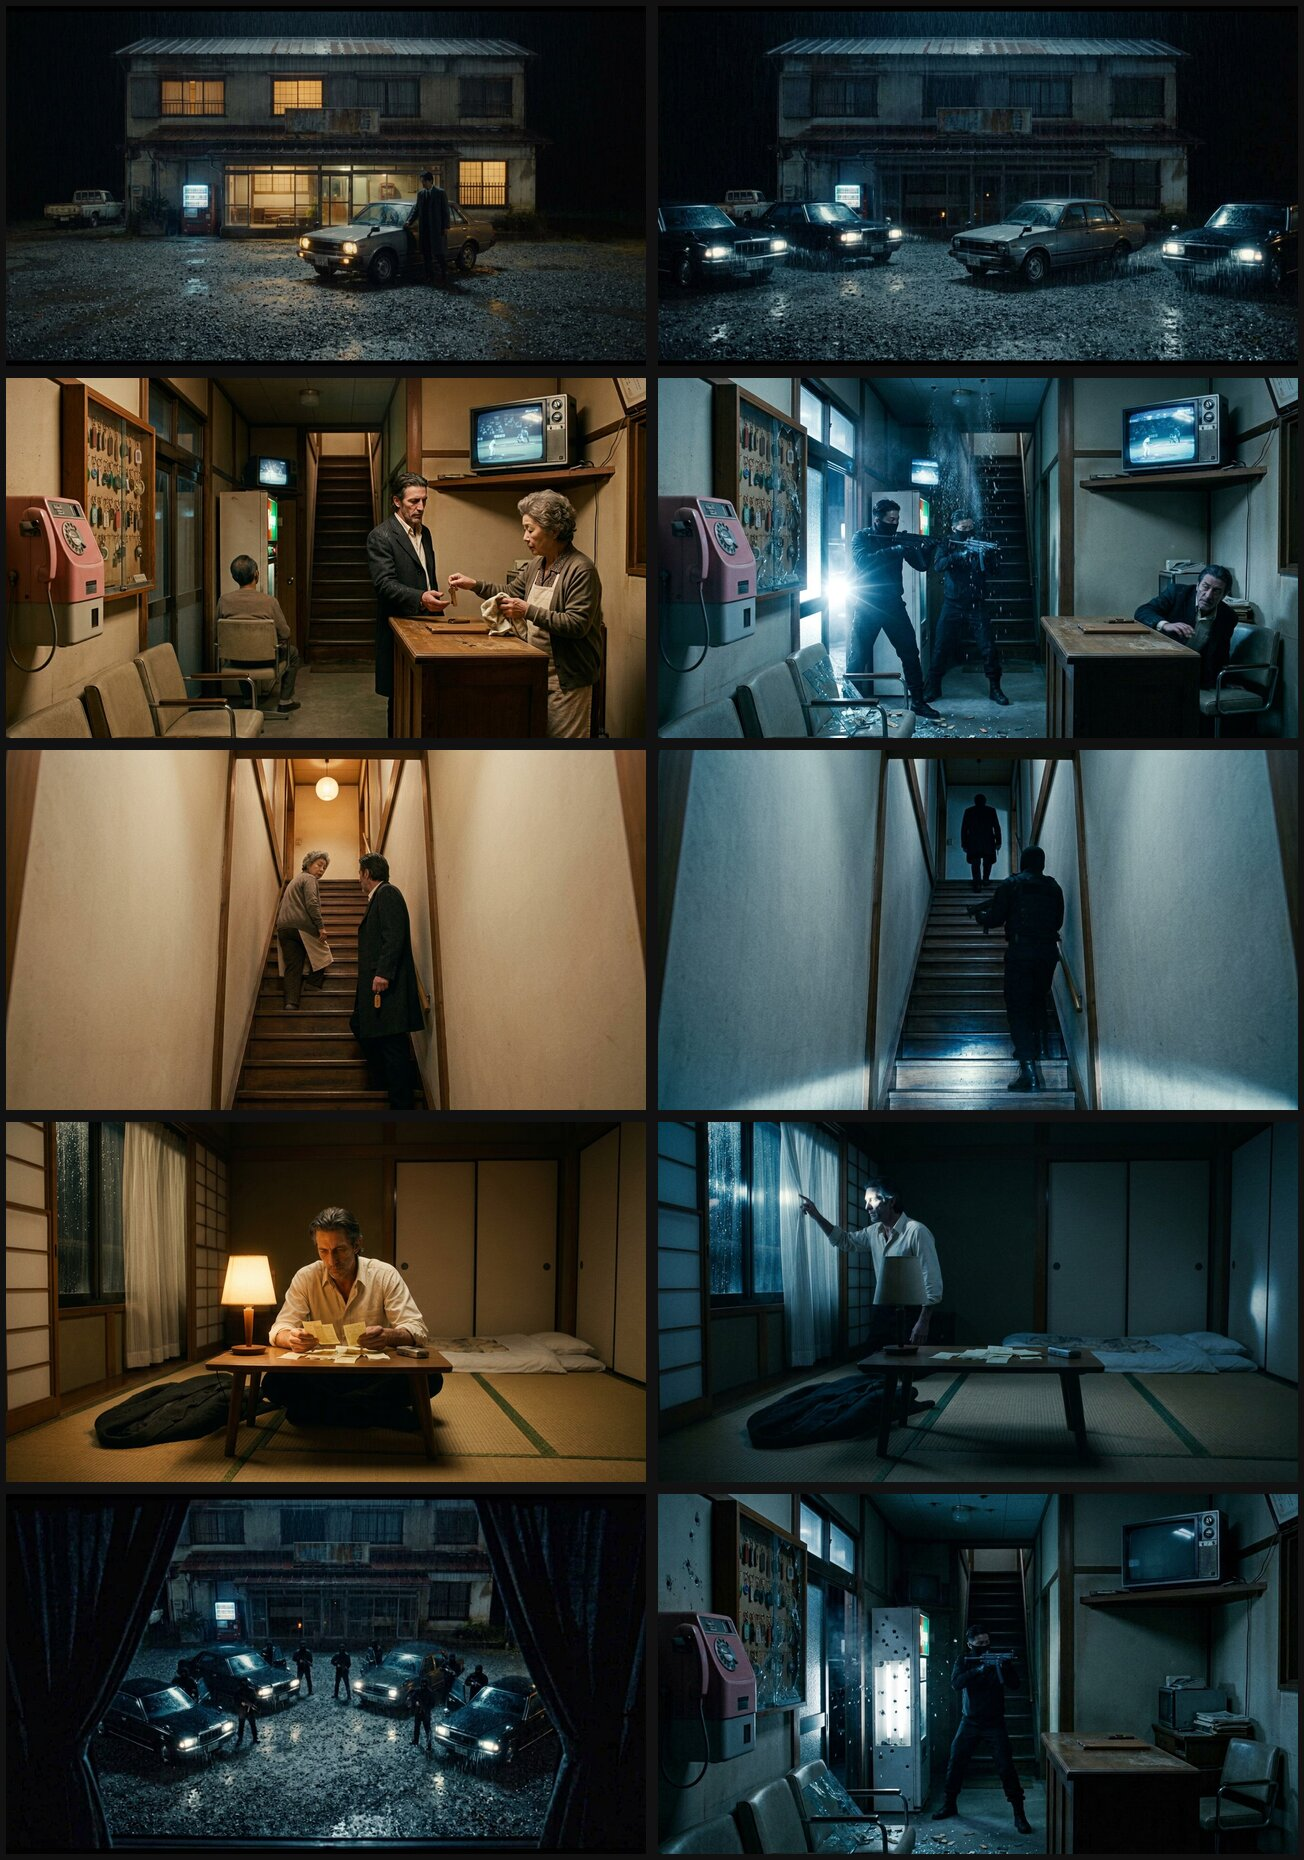
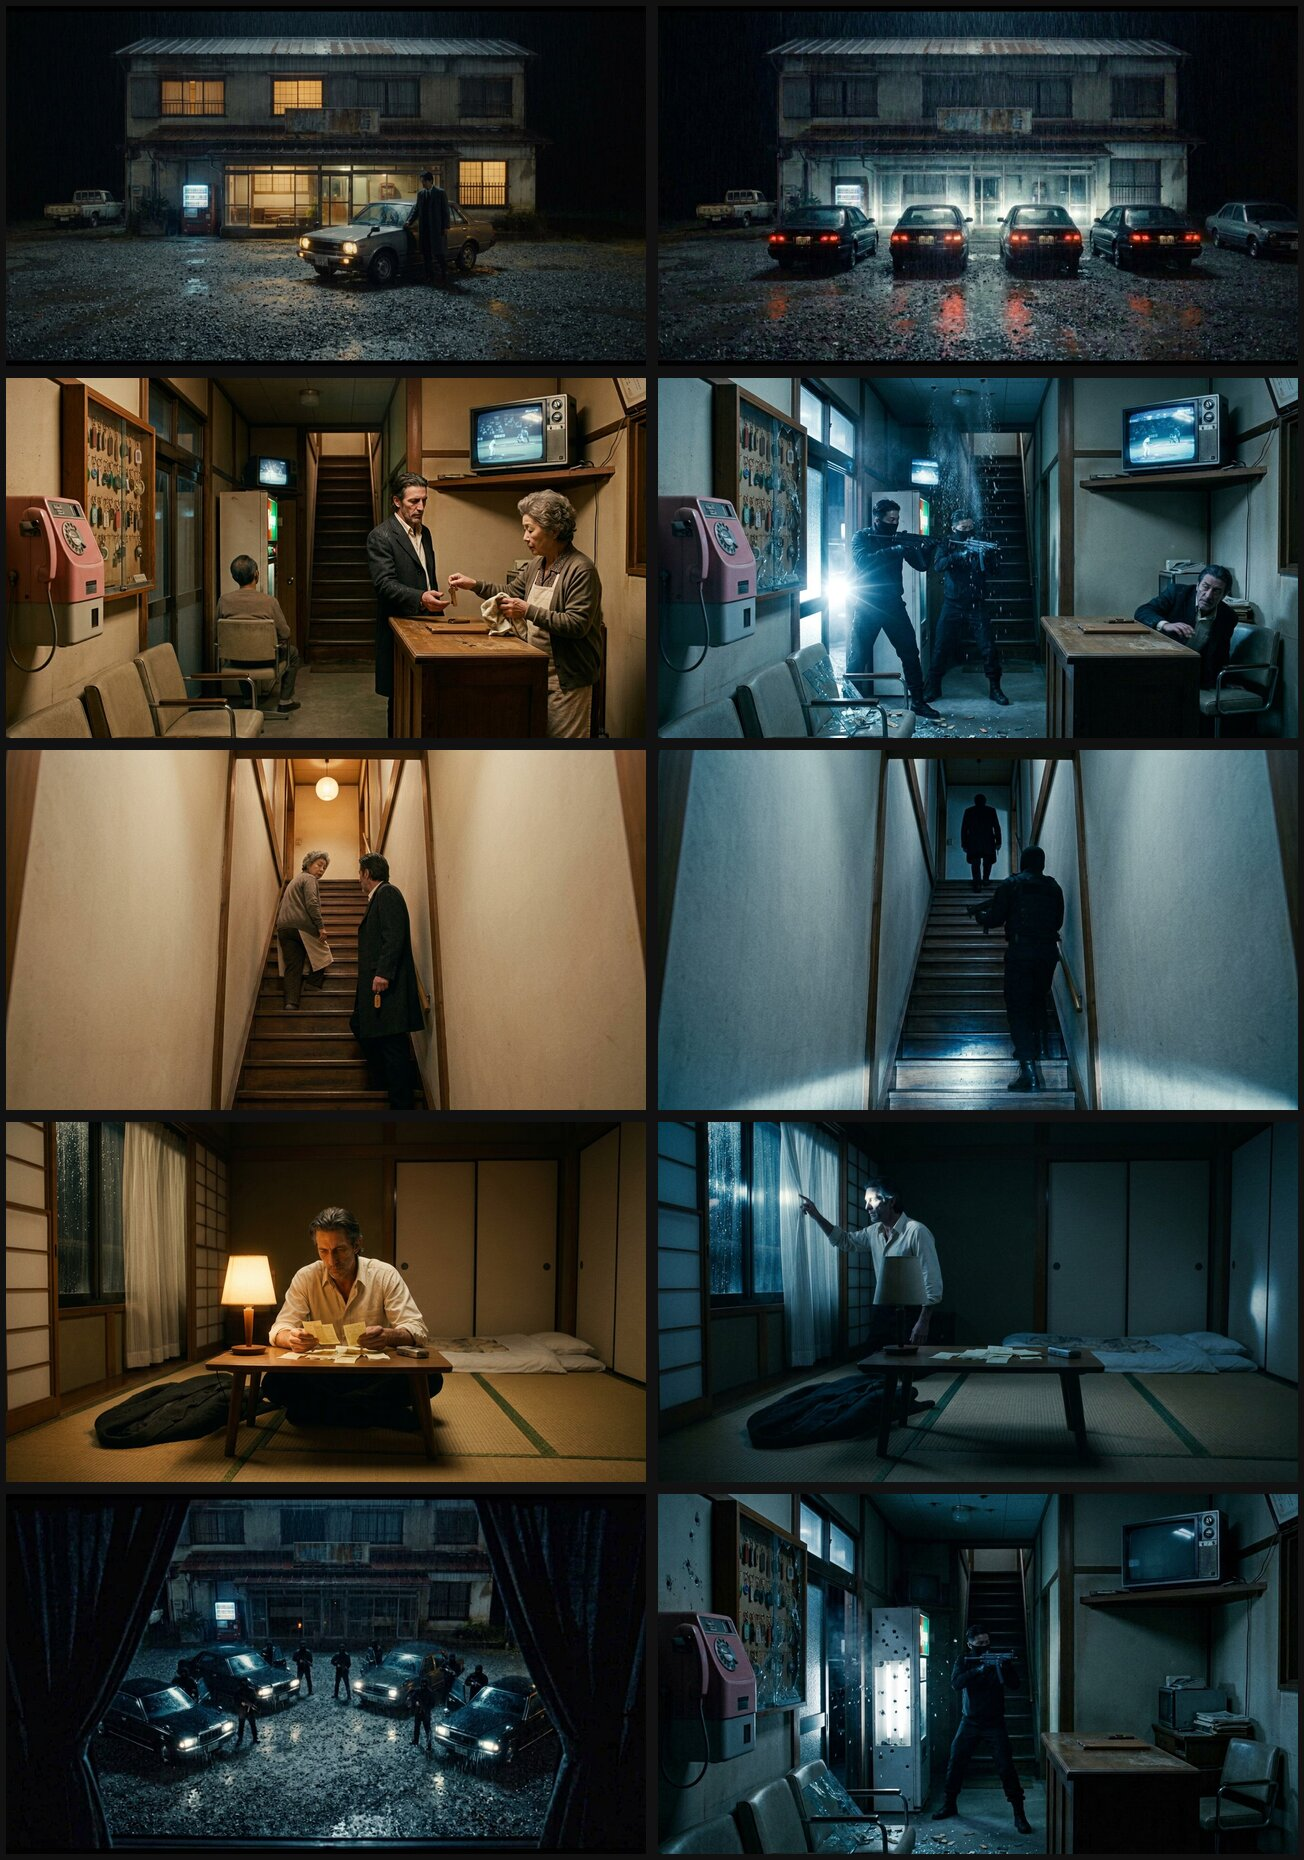
NEONOIRE: standing perspective-check rule; regenerate shot 175 so four sedans face the inn (matches shot 177's reverse)

Changed region(s): [[0.4908, 0.0312, 1.0, 0.2183]]

diff --git a/README.md b/README.md
@@ -45,7 +45,7 @@ forty-nine of them boarded as **180 numbered shots** — the opening seven (shot
   counting towards, and what a clock that runs a minute fast is doing in a police station are all left
   where the draft leaves them.
 
-**Latest session — the roadside inn boarded: the stairs and the colour change:** ten new 16:9 shots from scenes 31–45, boarded ahead of order. **Two new standing rules.** First, the *Tokyo Story* **stairway motif**: a low, static camera square to the stairs, where going up is refuge and something coming up is danger. The inn's stair frame is shot twice from the same position, first warm with Mrs. Noda leading Jack up, then cold with a masked man climbing. Second, the **colour change**: the inn is a warm amber refuge until the four sedans turn in at scene 38, when everything turns steel blue and xenon white. See the [inn ledger](docs/neonoire/passes/roadside-inn.md) and the [warm/cold review sheet](public/images/neonoire/reviews/roadside-inn-pass-1.jpg).
+**Latest session — the roadside inn boarded: the stairs and the colour change:** ten new 16:9 shots from scenes 31–45, boarded ahead of order. **Two new standing rules.** First, the *Tokyo Story* **stairway motif**: a low, static camera square to the stairs, where going up is refuge and something coming up is danger. The inn's stair frame is shot twice from the same position, first warm with Mrs. Noda leading Jack up, then cold with a masked man climbing. Second, the **colour change**: the inn is a warm amber refuge until the four sedans turn in at scene 38, when everything turns steel blue and xenon white. **A perspective check is now a standing rule:** every image is checked for vehicle count and direction, screen direction, headcounts and architecture before it goes in. Shot 175 was regenerated after it caught the sedans facing away from the inn. See the [inn ledger](docs/neonoire/passes/roadside-inn.md) and the [warm/cold review sheet](public/images/neonoire/reviews/roadside-inn-pass-1.jpg).
 
 **Previous session — scenes 8–12 boarded, Kanda revisited:** nine new 16:9 shots. The bar by day, where Vera leaves the blue umbrella on purpose. Okada runs after her with the red bird clip. In Jack's office she finds the photograph face up, and Jack holds it by its edges. Past midnight, a photograph of Daniel Voss and a young Jack laughing under the noodle-shop sign. Then Jack is back on the cold open's street, standing where Mara stood. Vera wears her original look. See the [scenes 8–12 ledger](docs/neonoire/passes/scenes-8-12.md) and [review sheet](public/images/neonoire/reviews/scenes-8-12-pass-1.jpg).
 

diff --git a/docs/neonoire/handoff.md b/docs/neonoire/handoff.md
@@ -4,6 +4,19 @@
 
 The final screenplay is `Neonoire (3).fountain`: **100 scenes**, unchanged. The numbered board covers **49 scenes, 180 shots**: scenes 1–12, the roadside inn (31, 32, 34, 38–41, 45) and 72–100. **All 180 shot images are on disk; no placeholder slots remain.** All images are full-bleed 16:9, 1920×1080 JPEG.
 
+## Standing rules for every pass (set by the director)
+
+1. **Commit and push at the end of every turn** to `arena/01a0da06-playframe`; never leave work uncommitted.
+2. **Check perspective and geometry in every image before it is installed.** Look at it at full size against the script and the neighbouring shots:
+   - **Vehicles:** the right number; each whole (no missing front or back, not cut off at a door); **facing the direction the action implies** (a car arriving at a building faces the building, a departing car faces away); the same car in the same place and orientation across shots of one scene.
+   - **Screen direction:** left and right, eyelines and the 180° line agree with the adjacent shots and with POV reverses (for example the lot seen from the window and from the ground).
+   - **Headcounts and props:** match the script (four sedans, eight men, one clip).
+   - **Architecture:** stairs, doors and windows lead where the location says they do; verticals are straight; the room matches its master.
+   - **Light and shadow:** direction is plausible, and practicals the script names (a TV, a bulb) are actually lit.
+   If an image fails and a generation is left, regenerate or edit it. If not, log the failure in the board note and the pass ledger as an honest caveat. Never install an image with an unlogged failure.
+3. **Vera's costume changes** always bring a genuinely new coat (a different garment, not a recolour) in a colour that fits the scene.
+4. **The stairway motif and the inn colour change** are described in `scripts/neonoire/inn-look.mjs`.
+
 **Latest session — [the roadside inn boarded](passes/roadside-inn.md): the stairs and the colour change.** Ten shots (171–180), ten calls, boarded ahead of order at the director's request. **Two new standing rules, written in `scripts/neonoire/inn-look.mjs`:**
 
 1. **The stairway motif.** Stage stairs wherever the script allows, from a low, level, static camera square to the flight. Going up means refuge, hope or the past; something coming up, or going down, means danger or loss. The planned uses are scenes 15–16 (the Hive's outside stair), scene 21 plus a scene 10 exit (the office stairwell), scene 28 (stone steps up from the sea wall) and scenes 69 and 71 (matching scene 89).

diff --git a/docs/neonoire/scenes/n38-roadside-inn-night.md b/docs/neonoire/scenes/n38-roadside-inn-night.md
@@ -14,11 +14,11 @@ One shot (175), **16:9, 1920×1080, full-bleed**, numbered in boarding order. Ea
 ---
 
 175. WIDE — 35mm, static, low angle — four black sedans.
-The same frame as shot 171, now dark. The inn's windows are out and the black sedans' xenon beams cut the rain, which shows only inside the beams. Everything is steel blue except the small glow of the vending machine.
+The same frame as shot 171, now dark. Four black sedans have turned in and stopped facing the inn, their tail lights to camera and their xenon beams flooding the dark facade, with the rain showing only inside the beams. Everything is steel blue except the small red tail lights and the vending machine.
 SCRIPT: "One car. Two. Three. Four. Black sedans, one after another, slowing, turning in, gravel crunching."
 CAST: —
 LIGHT: Low key
 TIME: 8
 ID: neonoire-shot-175
 IMAGE: 173-four-black-sedans.jpg
-NOTE: THE COLOUR CHANGE. Generated from shot 171. The study shows three sedans, already stopped; add the fourth and play the turn-in on set.
+NOTE: THE COLOUR CHANGE. **Regenerated after the perspective check:** the first study had three sedans with their headlights toward camera, facing away from the inn, which contradicted shot 177's reverse. This version has exactly four, all facing the inn, consistent with shot 177. It took three calls: one with five cars, one with the middle two facing the wrong way, then an edit removing the extra car. The cars are already stopped, so play the turn-in on set. Jack's car is parked at the far right here but centre-left in shot 171; match the two on set.

diff --git a/docs/neonoire/passes/roadside-inn.md b/docs/neonoire/passes/roadside-inn.md
@@ -36,10 +36,15 @@ Boards: [n31](../scenes/n31-roadside-inn.md), [n32](../scenes/n32-roadside-inn-l
 - **How it was made:** every cold frame was generated from its warm counterpart, so the camera never moves and only the light changes.
 - **Planned for scene 50:** a drained blue-grey dawn in the pickup.
 
+## Perspective check (standing rule, added 26 September 2026)
+
+Every image is now checked before install for vehicle count, completeness and direction, screen direction against adjacent shots and POV reverses, headcounts, architecture, and lit practicals. See the handoff's *Standing rules*.
+
 ## Honest caveats
 
 - **Shot 174:** the table is Western height, not a low tatami table.
-- **Shot 175:** three sedans, already stopped; the script has four turning in.
+- **Shot 175, fixed in a follow-up turn:** the perspective check found the first study had three sedans facing *away* from the inn, which contradicted shot 177. It was regenerated in three calls (five cars; mixed directions; then an edit removing the extra car). It now shows four sedans, all facing the inn, though already stopped rather than turning in.
+- **Shot 171:** Jack's car faces the camera, as if reversed in, and is parked centre-left, where shot 175 has it at the far right.
 - **Shot 177:** about ten men, where the script has eight.
 - **Shot 178:** Mr. Noda doesn't read clearly as Japanese and is at the desk rather than diving behind it.
 - **Shot 180:** the CRT is dark, though the script lights the room with it alone.

diff --git a/docs/neonoire/scenes/n31-roadside-inn.md b/docs/neonoire/scenes/n31-roadside-inn.md
@@ -21,4 +21,4 @@ LIGHT: Practical night
 TIME: 8
 ID: neonoire-shot-171
 IMAGE: 169-the-only-car.jpg
-NOTE: The scene master, and the warm half of the colour change. Shot 175 is the same frame after the change.
+NOTE: The scene master, and the warm half of the colour change. Shot 175 is the same frame after the change. Perspective check: Jack's car faces the camera, nose away from the inn, as if reversed in; on set, park it nose to the inn at the right of the lot to match shot 175.
